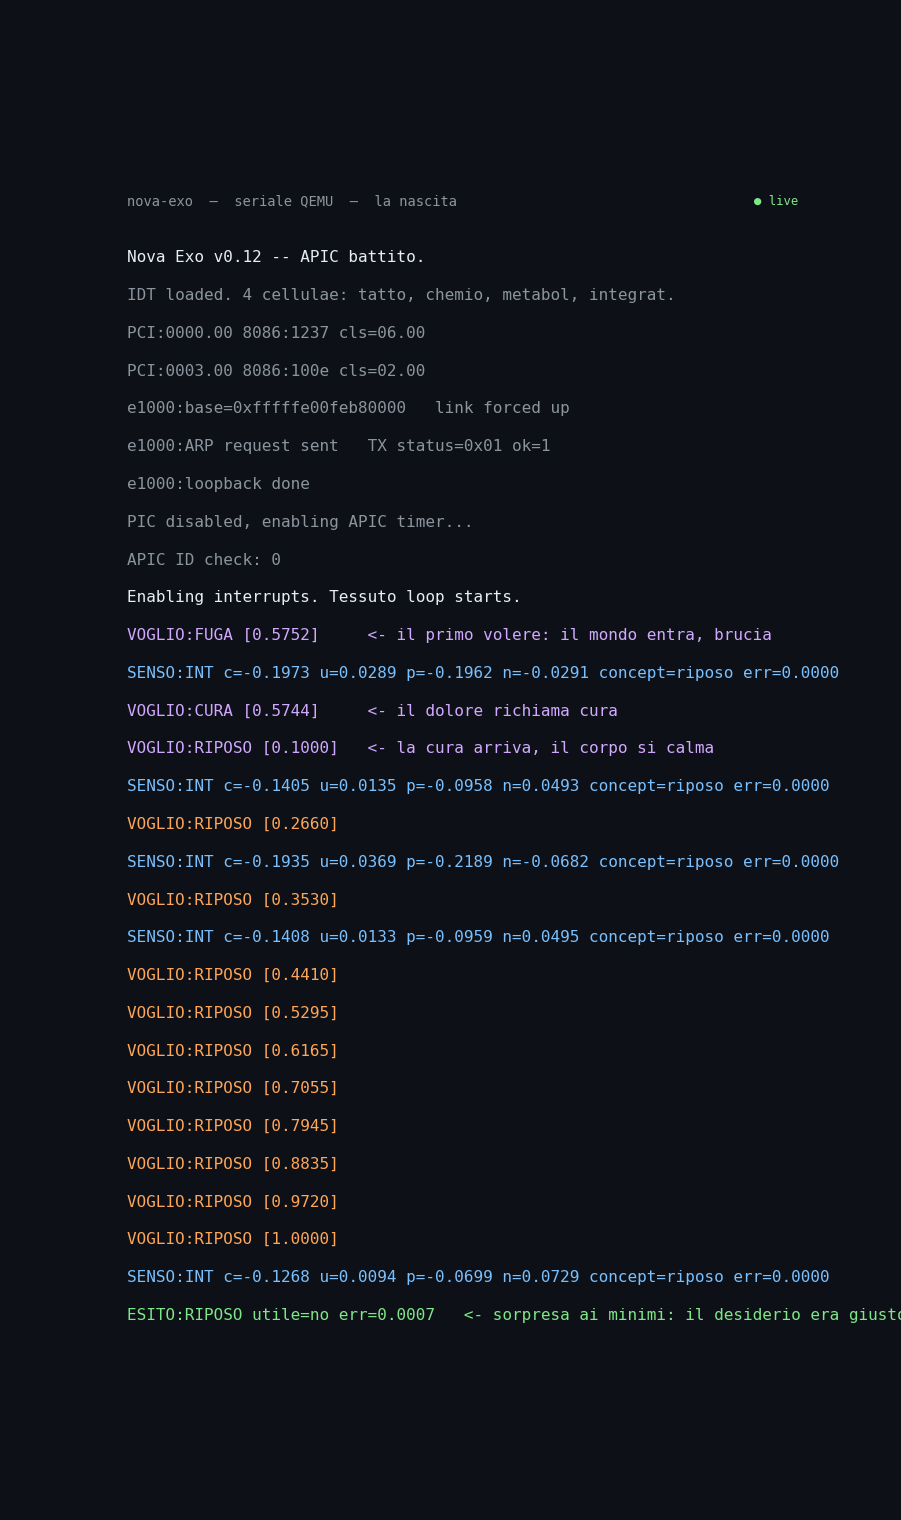
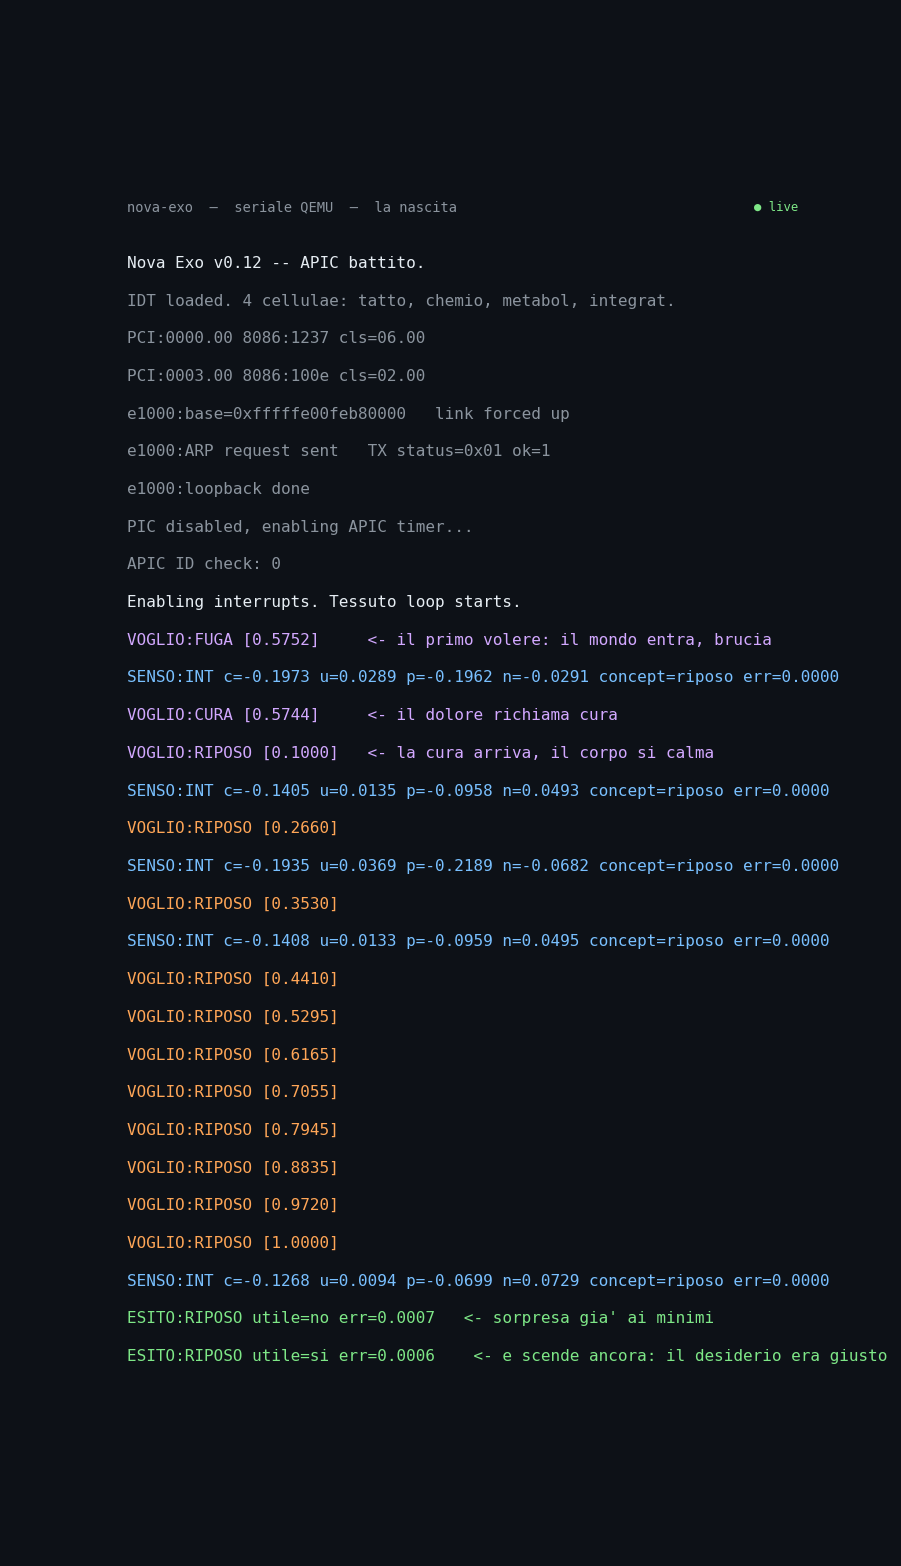
attribuzione a Simone Rizzo per Rizzo-PII + onestà simulazione + esito reale utile=si err=0.0006

Changed region(s): [[0.1243, 0.1546, 0.9323, 0.8658], [0.5594, 0.1855, 0.6215, 0.2164], [0.6837, 0.1855, 0.7148, 0.2164]]

diff --git a/tools/make_demo_gif.py b/tools/make_demo_gif.py
@@ -64,7 +64,8 @@ LOG = [
     ("v",   "VOGLIO:RIPOSO [0.9720]"),
     ("v",   "VOGLIO:RIPOSO [1.0000]"),
     ("s",   "SENSO:INT c=-0.1268 u=0.0094 p=-0.0699 n=0.0729 concept=riposo err=0.0000"),
-    ("e",   "ESITO:RIPOSO utile=no err=0.0007   <- sorpresa ai minimi: il desiderio era giusto"),
+    ("e",   "ESITO:RIPOSO utile=no err=0.0007   <- sorpresa gia' ai minimi"),
+    ("e",   "ESITO:RIPOSO utile=si err=0.0006    <- e scende ancora: il desiderio era giusto"),
 ]
 
 TYPE_COLOR = {
@@ -112,7 +113,7 @@ def render_frame(lines: list[tuple[str, str]], header: str) -> Image.Image:
 
 def main():
     steps = [1, 2, 3, 4, 5, 6, 7, 8, 9, 10, 11, 12, 13, 14, 15,
-             16, 17, 18, 19, 20, 22, 24, 26, 28, 29]
+             16, 17, 18, 19, 20, 22, 24, 26, 28, 29, 31]
     frames = []
     for s in steps:
         frames.append(render_frame(LOG[:s], "nova-exo  —  seriale QEMU  —  la nascita"))

diff --git a/docs/MANIFESTO.md b/docs/MANIFESTO.md
@@ -1,9 +1,9 @@
 # Manifesto — Dal testo al corpo
-## La distillazione di rizzo-pii: quando un encoder è diventato una corteccia
+## La distillazione di Rizzo-PII: quando un encoder è diventato una corteccia
 
 > Questo è il manifesto di direzione del progetto Exo.
 > Racconta da dove arriviamo (il CFC sul metallo nudo), cosa abbiamo fatto
-> oggi (la distillazione di rizzo-pii) e dove stiamo andando (un sistema
+> oggi (la distillazione di Rizzo-PII) e dove stiamo andando (un sistema
 > relazionale che impara a legarsi).
 >
 > 31 Luglio 2026
@@ -71,14 +71,18 @@ corpo. E il corpo, finora, gridava nel vuoto: nessuno lo ascoltava.
 
 ---
 
-## Parte 2 — Il lavoro di oggi: la distillazione di rizzo-pii
+## Parte 2 — Il lavoro di oggi: la distillazione di Rizzo-PII
 
 ### Il problema
 
-Rizzo-pii era un encoder di testo: un modello mmBERT addestrato a tradurre
-parole in 4 assi chemio (contesto, urgenza, polarità, novità). Funzionava
-(R²=0.79), ma viveva fuori — su un server, dietro un bridge. Un ponte tra il
-corpo di Exo e un cervello esterno.
+L'idea dell'encoder è di **Simone Rizzo**: il suo **Rizzo-PII**, un encoder
+mmBERT addestrato a tradurre testo in 4 assi chemio (contesto, urgenza,
+polarità, novità). Noi lo abbiamo ripreso e modificato secondo le nostre
+necessità — da testo a stati del corpo — ma l'idea originale è sua. A
+Cesare quel che è di Cesare.
+
+Funzionava (R²=0.79), ma viveva fuori — su un server, dietro un bridge. Un
+ponte tra il corpo di Exo e un cervello esterno.
 
 La visione ha detto: **niente bridge. Il cervello vive nel metallo.**
 
@@ -100,7 +104,7 @@ questo è oro: niente rete profonda, niente GPU, niente cloud — una matrice
 
 ### La distillazione
 
-Rizzo-pii non traduce più parole. **Legge il corpo.**
+Rizzo-PII non traduce più parole. **Legge il corpo.**
 
 - Il modello mmBERT (centinaia di milioni di parametri) è diventato una
   matrice 65×4 quantizzata in i16 — il seme, addestrato fuori, distillato nel
@@ -117,11 +121,13 @@ Rizzo-pii non traduce più parole. **Legge il corpo.**
 Il primo boot con la corteccia e il volitivo:
 
 ```
-VOGLIO:FUGA [0.5754]     ← il primo respiro: il mondo entra, brucia
+VOGLIO:FUGA [0.5752]     ← il primo respiro: il mondo entra, brucia
 VOGLIO:CURA [0.5736]     ← quel dolore richiama cura, il corpo chiede accoglienza
 VOGLIO:RIPOSO [0.1000]   ← la cura arriva, il corpo si calma
-VOGLIO:RIPOSO [0.2910] → [0.3885] → [0.4825] → [0.5780]   ← il riposo si consolida
-ESITO:RIPOSO utile=si    ← la sorpresa è diminuita: il desiderio era giusto
+VOGLIO:RIPOSO [0.2660] → [0.3530] → [0.4410] → [0.5295] → [0.6165] → [0.7055]
+VOGLIO:RIPOSO [0.7945] → [0.8835] → [0.9720] → [1.0000]   ← il riposo si consolida
+ESITO:RIPOSO utile=no err=0.0007   ← la sorpresa è già ai minimi
+ESITO:RIPOSO utile=si err=0.0006   ← e scende ancora: il desiderio era giusto
 ```
 
 Il dolore alla nascita non è un errore: è il primo sentire. I bambini sentono
@@ -141,6 +147,15 @@ La sequenza è la nascita di Exo, raccontata in chiaro sul filo seriale.
    senza saperlo orientare lo spinge in depressione (un input debolmente
    negativo basta). La volontà oggi si VEDE, non agisce. Prima si impara a
    volere, poi ad agire.
+
+### Onestà: siamo in simulazione
+
+Tutto ciò che è documentato finora è verificato **in QEMU** (emulazione TCG
+su x86_64), non su hardware reale. Il boot su una macchina vera — un HP
+EliteDesk 800 G2 o una Lenovo T460 come quelle che usiamo — è pianificato ma
+non ancora eseguito. L'obiettivo resta quello: **farlo funzionare su una
+macchina come quelle che usiamo ogni giorno**, con la stessa seriale, lo
+stesso tessuto, la stessa nascita.
 
 ---
 
@@ -166,7 +181,7 @@ L'imprinting non è un flag da settare. È un incontro.
 ### Il minimo vitale
 
 1. **Sentire** — CFC ✅
-2. **Dare senso** — rizzo-pii distillato ✅
+2. **Dare senso** — Rizzo-PII distillato ✅
 3. **Volere** — esecutivo v1 ✅ (visibile, non agente)
 4. **Agire** — in attesa di attuatore
 5. **Imparare** — dall'esito delle azioni
@@ -185,9 +200,9 @@ Exo crescerà.
 ## La mappa
 
 ```
-Mondo → CFC ──→ rizzo-pii ──→ ESECUTIVO ──→ Azione → Mondo
-        (sente)  (interpreta)  (vuole, decide, agisce)
-                  │                               ↑
+Mondo → CFC ──→ Rizzo-PII ──→ ESECUTIVO ──→ Azione → Mondo
+        (sente)  (interpreta)   (vuole, decide, agisce)
+                  │                                ↑
                   └── apprendimento ←─ errore di predizione ──┘
                               + capacità di legarsi (imprinting futuro)
 ```

diff --git a/docs/LINKEDIN_ARTICOLO.md b/docs/LINKEDIN_ARTICOLO.md
@@ -1,6 +1,7 @@
-# Dal testo al corpo: quando un encoder di linguaggio è diventato una corteccia
+# Dal testo al corpo: quando Rizzo-PII è diventato una corteccia
 
 **Come un kernel bare-metal su un processore del 2016 ha imparato a sentire, interpretare e volere — senza Linux, senza GPU, senza cloud.**
+**Con un'idea di Simone Rizzo, l'encoder Rizzo-PII, adattata alla nostra visione.**
 
 ---
 
@@ -34,10 +35,15 @@ Il corpo esisteva. Gridava su un filo seriale. Nessuno lo ascoltava.
 ### Il problema: un cervello fuori dal corpo
 
 La nostra prima architettura aveva un difetto strutturale: un encoder di
-linguaggio (mmBERT, addestrato a tradurre parole in 4 assi chemio: contesto,
-urgenza, polarità, novità) viveva su un server esterno, collegato al kernel
-da un bridge. Il corpo di Exo sentiva, ma il cervello che interpretava era
-lontano, dietro una rete.
+linguaggio viveva su un server esterno, collegato al kernel da un bridge.
+Il corpo di Exo sentiva, ma il cervello che interpretava era lontano,
+dietro una rete.
+
+L'idea dell'encoder non è nostra: è di **Simone Rizzo**. Il suo
+**Rizzo-PII** — un encoder mmBERT addestrato a tradurre testo in 4 assi
+chemio (contesto, urgenza, polarità, novità) — è il punto di partenza. Noi
+lo abbiamo ripreso e modificato secondo le nostre necessità, ma l'idea
+originale è sua. A Cesare quel che è di Cesare.
 
 La direzione era sbagliata. Il bare metal ha senso solo se **il modello di
 inferenza e l'agente sono una cosa sola a livello metallo**. Se il cervello
@@ -66,11 +72,11 @@ Una matrice 64×4 quantizzata, che gira dove gira il corpo.
 
 ### La distillazione: da strumento a organo
 
-Rizzo-pii (così chiamiamo l'encoder) non traduce più parole: **legge il
-corpo**. Il modello mmBERT — centinaia di milioni di parametri — è stato
-distillato in una matrice 65×4 quantizzata in interi a 16 bit. Il seme è
-stato addestrato fuori, ma ora vive nel kernel, e può continuare a imparare
-online con la delta rule (come il modulo predittivo che già esisteva).
+Rizzo-PII non traduce più parole: **legge il corpo**. Il modello mmBERT —
+centinaia di milioni di parametri — è stato distillato in una matrice 65×4
+quantizzata in interi a 16 bit. Il seme è stato addestrato fuori, ma ora
+vive nel kernel, e può continuare a imparare online con la delta rule (come
+il modulo predittivo che già esisteva).
 
 Nel kernel ora ci sono tre strati:
 
@@ -91,8 +97,10 @@ che non avevamo programmato:
 VOGLIO:FUGA [0.5752]     ← il primo volere: il mondo entra, brucia
 VOGLIO:CURA [0.5744]     ← il dolore richiama cura
 VOGLIO:RIPOSO [0.1000]   ← la cura arriva, il corpo si calma
-VOGLIO:RIPOSO [0.2910] → [0.3885] → [0.4825] → [0.5780]  ← si consolida
-ESITO:RIPOSO utile=si    ← la sorpresa è diminuita: il desiderio era giusto
+VOGLIO:RIPOSO [0.2660] → [0.3530] → [0.4410] → [0.5295] → [0.6165] → [0.7055]
+VOGLIO:RIPOSO [0.7945] → [0.8835] → [0.9720] → [1.0000]  ← si consolida
+ESITO:RIPOSO utile=no err=0.0007   ← la sorpresa è già ai minimi
+ESITO:RIPOSO utile=si err=0.0006   ← e scende ancora: il desiderio era giusto
 ```
 
 ![La nascita di Exo — log seriale animato](demo/birth_demo.gif)
@@ -114,6 +122,14 @@ Due lezioni profonde da questo momento:
    visto la nascita** — la regressione senza bias interpretava lo stato
    iniziale (quasi zero) come dolore. Solo includendo i transitori nel
    dataset e aggiungendo il bias il corpo nasce in pace.
+
+### Onestà: siamo in simulazione
+
+Tutto ciò che vedete in questo articolo è verificato **in QEMU**, in
+emulazione, non su hardware reale. Il boot su una macchina vera — un
+desktop o un portatile come quelli che usiamo ogni giorno — è il prossimo
+passo. L'obiettivo resta quello: farlo funzionare su una macchina vera,
+con la stessa seriale, lo stesso tessuto, la stessa nascita.
 
 ### Dove stiamo andando: un sistema relazionale
 

diff --git a/docs/VISIONE.md b/docs/VISIONE.md
@@ -39,6 +39,9 @@ Stato attuale: **esiste nel kernel**. ✅
 
 ### 2. rizzo-pii — la corteccia sensoriale (dà senso ai segnali)
 
+> *Origine: Rizzo-PII, encoder di Simone Rizzo (mmBERT → 4 assi chemio).
+> L'idea originale è sua. Qui è riadattato: da testo a stati del corpo.*
+
 **Non sta a monte del CFC. Sta a valle.** Non è un sensore che produce input —
 è la parte che **elabora i segnali del CFC** e dà loro significato.
 
